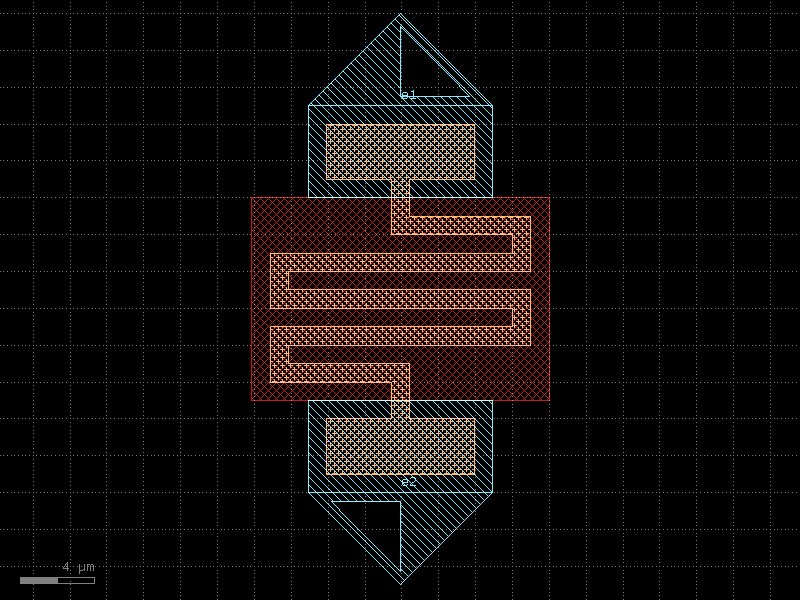
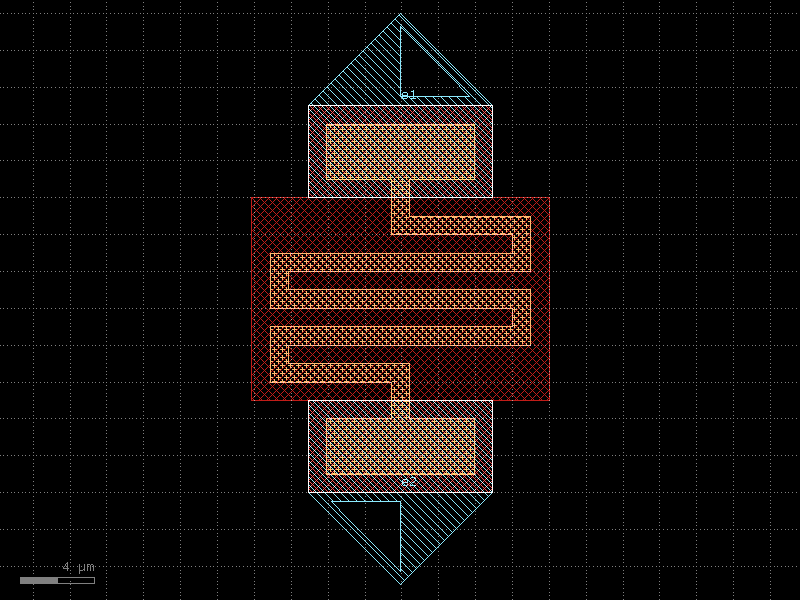
change resistor API to allow multiple keepout and contact layers

Changed region(s): [[0.375, 0.66, 0.625, 0.84], [0.375, 0.18, 0.625, 0.33]]

diff --git a/src/qnngds/devices/resistor.py b/src/qnngds/devices/resistor.py
@@ -8,7 +8,7 @@ import numpy as np
 
 import qnngds as qg
 
-from gdsfactory.typings import LayerSpec
+from gdsfactory.typings import LayerSpec, LayerSpecs
 
 
 @gf.cell
@@ -171,9 +171,9 @@ def meander_sc_contacts(
     meander_pitch: float | None = 2,
     contact_size: tuple[float, float] = (8, 3),
     outline_sc: float = 1,
-    layer_res: LayerSpec = (4, 0),
-    layer_sc: LayerSpec = (1, 0),
-    layer_keepout: LayerSpec | None = (3, 0),
+    layer_res: LayerSpec = "PHOTO1",
+    layer_contacts: LayerSpecs = ["EBEAM_FINE", "PHOTO2"],
+    layer_keepout: LayerSpecs = ["EBEAM_KEEPOUT"],
     port_type: str = "electrical",
 ) -> gf.Component:
     """Create resistor meander with superconducting contacts.
@@ -188,8 +188,8 @@ def meander_sc_contacts(
         contact_size (tuple[float, float]): (width, height) of resistor<->superconductor contact
         outline_sc (float): superconductor extra width on each side of contact
         layer_res (LayerSpec): resistor GDS layer
-        layer_sc (LayerSpec): superconductor GDS layer
-        layer_keepout (LayerSpec): layer to do keepout on
+        layer_contacts (LayerSpecs): layer(s) for contact to superconductor (first will define port layer)
+        layer_keepout (LayerSpecs): layer(s) to do keepout on
         port_type (string): gdsfactory port type. default "electrical"
 
     Returns:
@@ -200,6 +200,9 @@ def meander_sc_contacts(
     if meander_pitch is None:
         meander_pitch = np.inf
 
+    if len(layer_contacts) < 1:
+        raise ValueError(f"must have at least one contact layer, got {layer_contacts}")
+
     res = D << meander(
         layer=layer_res,
         width=width,
@@ -207,9 +210,9 @@ def meander_sc_contacts(
         squares=squares,
         max_length=max_length,
     )
-    if layer_keepout is not None:
+    for layer in layer_keepout:
         res_ko = D << qg.geometries.rectangle(
-            size=(res.xsize + 2 * width, res.ysize), layer=layer_keepout
+            size=(res.xsize + 2 * width, res.ysize), layer=layer
         )
         res_ko.move(res_ko.center, res.center)
     stub = qg.geometries.compass(
@@ -218,20 +221,29 @@ def meander_sc_contacts(
     contact = qg.geometries.compass(
         size=contact_size, layer=layer_res, port_type="electrical"
     )
-    contact_sc = qg.geometries.compass(
-        size=(contact_size[0] + 2 * outline_sc, contact_size[1] + 2 * outline_sc),
-        layer=layer_sc,
-        port_type="electrical",
-    )
+    contacts = []
+    for layer in layer_contacts:
+        contacts.append(
+            qg.geometries.compass(
+                size=(
+                    contact_size[0] + 2 * outline_sc,
+                    contact_size[1] + 2 * outline_sc,
+                ),
+                layer=layer,
+                port_type="electrical",
+            )
+        )
     ports = []
     for p, port in enumerate(res.ports):
         s = D << stub
         s.connect(port=s.ports["e4"], other=port)
         c = D << contact
         c.connect(port=c.ports["e4"], other=s.ports["e2"], allow_width_mismatch=True)
-        c_sc = D << contact_sc
-        c_sc.center = c.center
-        ports.append(c_sc.ports[f"e{2 + 2 * (p % 2)}"])
+        for i, con_sc in enumerate(contacts):
+            c_sc = D << con_sc
+            c_sc.center = c.center
+            if i == 0:
+                ports.append(c_sc.ports[f"e{2 + 2 * (p % 2)}"])
 
     Du = gf.Component()
     Du << qg.utilities.union(D)
